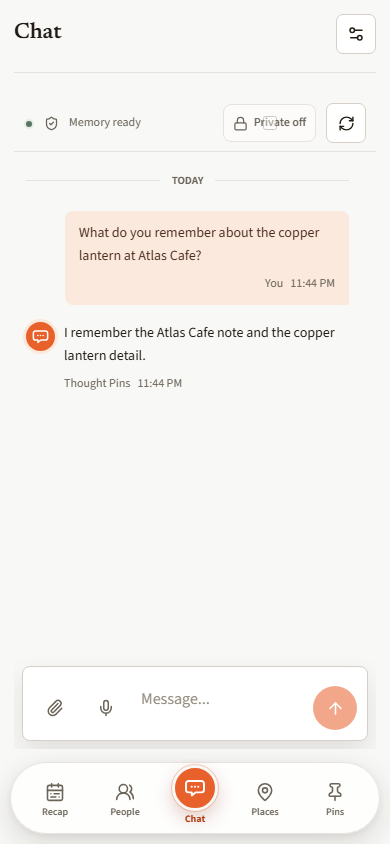
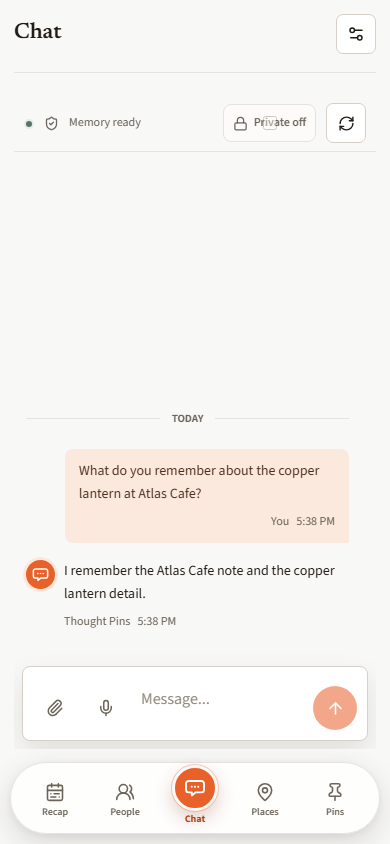
Anchor the transcript to the composer it belongs to
The chat stream flowed from the top of a block container, so a short
conversation left the reply stranded roughly four hundred and fifty pixels above
the input on a laptop, with the gap between them reading as a mistake rather
than as history. Bottom-anchoring it puts the empty space above the transcript,
where unwritten history actually is.

Not justify-content: flex-end, which is the obvious way and quietly breaks: once
the transcript overflows, the content above the fold becomes unreachable, and
the layout still looks correct while the history stops scrolling. Measured on a
ten-turn conversation, that version reports a scrollHeight equal to its
clientHeight — no scroll at all. An auto-margin spacer pushes the content down
while it is short and collapses once it overflows, which leaves scrolling
intact: scrollHeight 1750 against a 502 viewport, first message reachable.

The welcome state centres itself, so the spacer is disabled while it is showing.

That difference is invisible in a screenshot, so it has a test rather than an
explanation. Verified by swapping in the naive version and watching it fail.

diff --git a/frontend/e2e/chat-transcript-scroll.spec.ts b/frontend/e2e/chat-transcript-scroll.spec.ts
@@ -1,0 +1,59 @@
+import { expect, test } from "@playwright/test";
+import { installMockApi } from "./mockApi";
+
+/**
+ * The transcript is bottom-anchored so a short conversation sits against the
+ * composer instead of stranding the reply half a window above the input. That
+ * is done with an auto-margin spacer rather than `justify-content: flex-end`,
+ * because flex-end makes overflowing content unreachable above the fold in
+ * several browsers — the layout looks right and the history becomes unscrollable.
+ *
+ * This asserts the half that a screenshot cannot show: that a transcript long
+ * enough to overflow can still be scrolled back to its first message.
+ */
+test("a long transcript can still be scrolled back to its first message", async ({ page }) => {
+  await page.setViewportSize({ width: 1280, height: 800 });
+  await installMockApi(page, "local", 0, "product");
+  await page.goto("/app/");
+  await page.waitForLoadState("networkidle");
+
+  const composer = page.locator("textarea, [contenteditable=true]").first();
+  for (let i = 1; i <= 10; i += 1) {
+    await composer.click();
+    await composer.fill(`turn number ${i} about the harbour project and the copper lantern`);
+    await composer.press("Enter");
+    await page.waitForTimeout(350);
+  }
+  await page.waitForTimeout(1200);
+
+  const metrics = await page.evaluate(() => {
+    const stream = document.querySelector(".chat-stream") as HTMLElement;
+    return { scrollHeight: stream.scrollHeight, clientHeight: stream.clientHeight };
+  });
+  expect(metrics.scrollHeight).toBeGreaterThan(metrics.clientHeight);
+
+  await page.evaluate(() => {
+    const stream = document.querySelector(".chat-stream") as HTMLElement;
+    // scroll-behavior is smooth, so assigning scrollTop starts an animation and
+    // reads back the previous value. Force it instant, then let it settle.
+    stream.style.scrollBehavior = "auto";
+    stream.scrollTo({ top: 0, behavior: "instant" as ScrollBehavior });
+  });
+  await page.waitForTimeout(700);
+
+  const top = await page.evaluate(() => {
+    const stream = document.querySelector(".chat-stream") as HTMLElement;
+    const first = document.querySelector(".chat-message-row") as HTMLElement;
+    const streamRect = stream.getBoundingClientRect();
+    const firstRect = first.getBoundingClientRect();
+    return {
+      scrollTop: stream.scrollTop,
+      offsetFromTop: Math.round(firstRect.top - streamRect.top),
+      visible: firstRect.bottom > streamRect.top && firstRect.top < streamRect.bottom,
+    };
+  });
+
+  expect(top.scrollTop).toBe(0);
+  expect(top.visible).toBe(true);
+  expect(top.offsetFromTop).toBeGreaterThanOrEqual(-1);
+});

diff --git a/frontend/src/styles/40-chat.css b/frontend/src/styles/40-chat.css
@@ -105,13 +105,31 @@
 
 .private-memory-toggle:has(input:checked) { border-color: var(--tp-brand); color: var(--tp-action); background: var(--tp-brand-soft); }
 .chat-stream {
-  display: block;
+  display: flex;
+  flex-direction: column;
   min-height: 0;
   padding: 26px clamp(16px, 3vw, 48px) 16px;
   overflow-y: auto;
   scroll-behavior: smooth;
   scrollbar-gutter: stable;
   scrollbar-color: var(--tp-line-strong) transparent;
+}
+
+/* A short conversation belongs against the composer, not stranded at the top of
+   an empty column with the reply and the input separated by half the window.
+   The auto margin on this spacer pushes the transcript down while it is short
+   and collapses to nothing once the content overflows, so the top of a long
+   transcript stays scrollable — which a plain justify-content: flex-end does
+   not guarantee. */
+.chat-stream::before {
+  content: "";
+  margin-top: auto;
+}
+
+/* The welcome state is its own composition and centres itself; the spacer would
+   otherwise push it against the composer. */
+.chat-stream:has(.chat-welcome)::before {
+  margin-top: 0;
 }
 
 .chat-stream:focus-visible {
